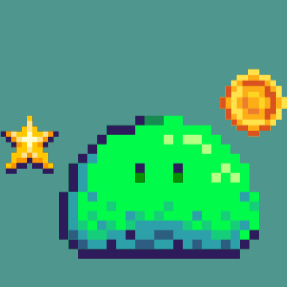
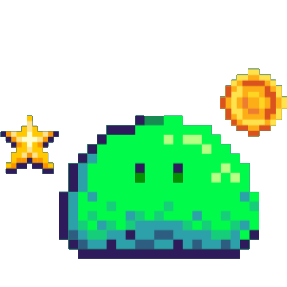
feat: menu

diff --git a/sources/menu.py b/sources/menu.py
@@ -37,7 +37,12 @@ class MainMenu(Menu):
             self.game.check_events()
             self.check_input()
             self.game.display.fill(Constants.BACKGROUND)
+            self.game.display.blit(
+                pygame.transform.scale(Constants.ASSETS["BACKGROUND"][1], (Constants.DISPLAY_W, Constants.DISPLAY_H)),
+                (0, 0))
             self.game.draw_text("Jimanji Rush", 80, self.width_center, self.heigth_center)
+            self.game.display.blit(pygame.transform.scale(Constants.ASSETS["ICON"], (90, 90)),
+                                   (self.width_center - 55, self.heigth_center - 110))
             self.game.draw_text("PLAY", 40, self.pox_x_play, self.pos_y_play)
             self.game.draw_text("SCORES", 40, self.pos_x_scores, self.pos_y_scores)
             self.game.draw_text("CREDITS", 40, self.pos_x_credits, self.pos_y_credits)
@@ -95,6 +100,9 @@ class ScoreMenu(Menu):
         while self.run_display:
             self.check_input()
             self.game.display.fill(Constants.BACKGROUND)
+            self.game.display.blit(
+                pygame.transform.scale(Constants.ASSETS["BACKGROUND"][1], (Constants.DISPLAY_W, Constants.DISPLAY_H)),
+                (0, 0))
             self.game.draw_text('SCORES', 80, Constants.DISPLAY_W / 2, Constants.DISPLAY_H / 12 * 2)
             self.game.draw_text('Press ESC or RETURN to return to Main Menu', 20, Constants.DISPLAY_W / 2,
                                 Constants.DISPLAY_H / 15 * 14)
@@ -142,6 +150,9 @@ class CreditsMenu(Menu):
         while self.run_display:
             self.check_input()
             self.game.display.fill(Constants.BACKGROUND)
+            self.game.display.blit(
+                pygame.transform.scale(Constants.ASSETS["BACKGROUND"][1], (Constants.DISPLAY_W, Constants.DISPLAY_H)),
+                (0, 0))
             self.game.draw_text('CREDITS', 80, Constants.DISPLAY_W / 2, Constants.DISPLAY_H / 12 * 3)
             self.game.draw_text('Arthur PELLEGRINI', 30, Constants.DISPLAY_W / 2, Constants.DISPLAY_H / 12 * 6)
             self.game.draw_text('Clement BRISSARD', 30, Constants.DISPLAY_W / 2, Constants.DISPLAY_H / 12 * 7)
